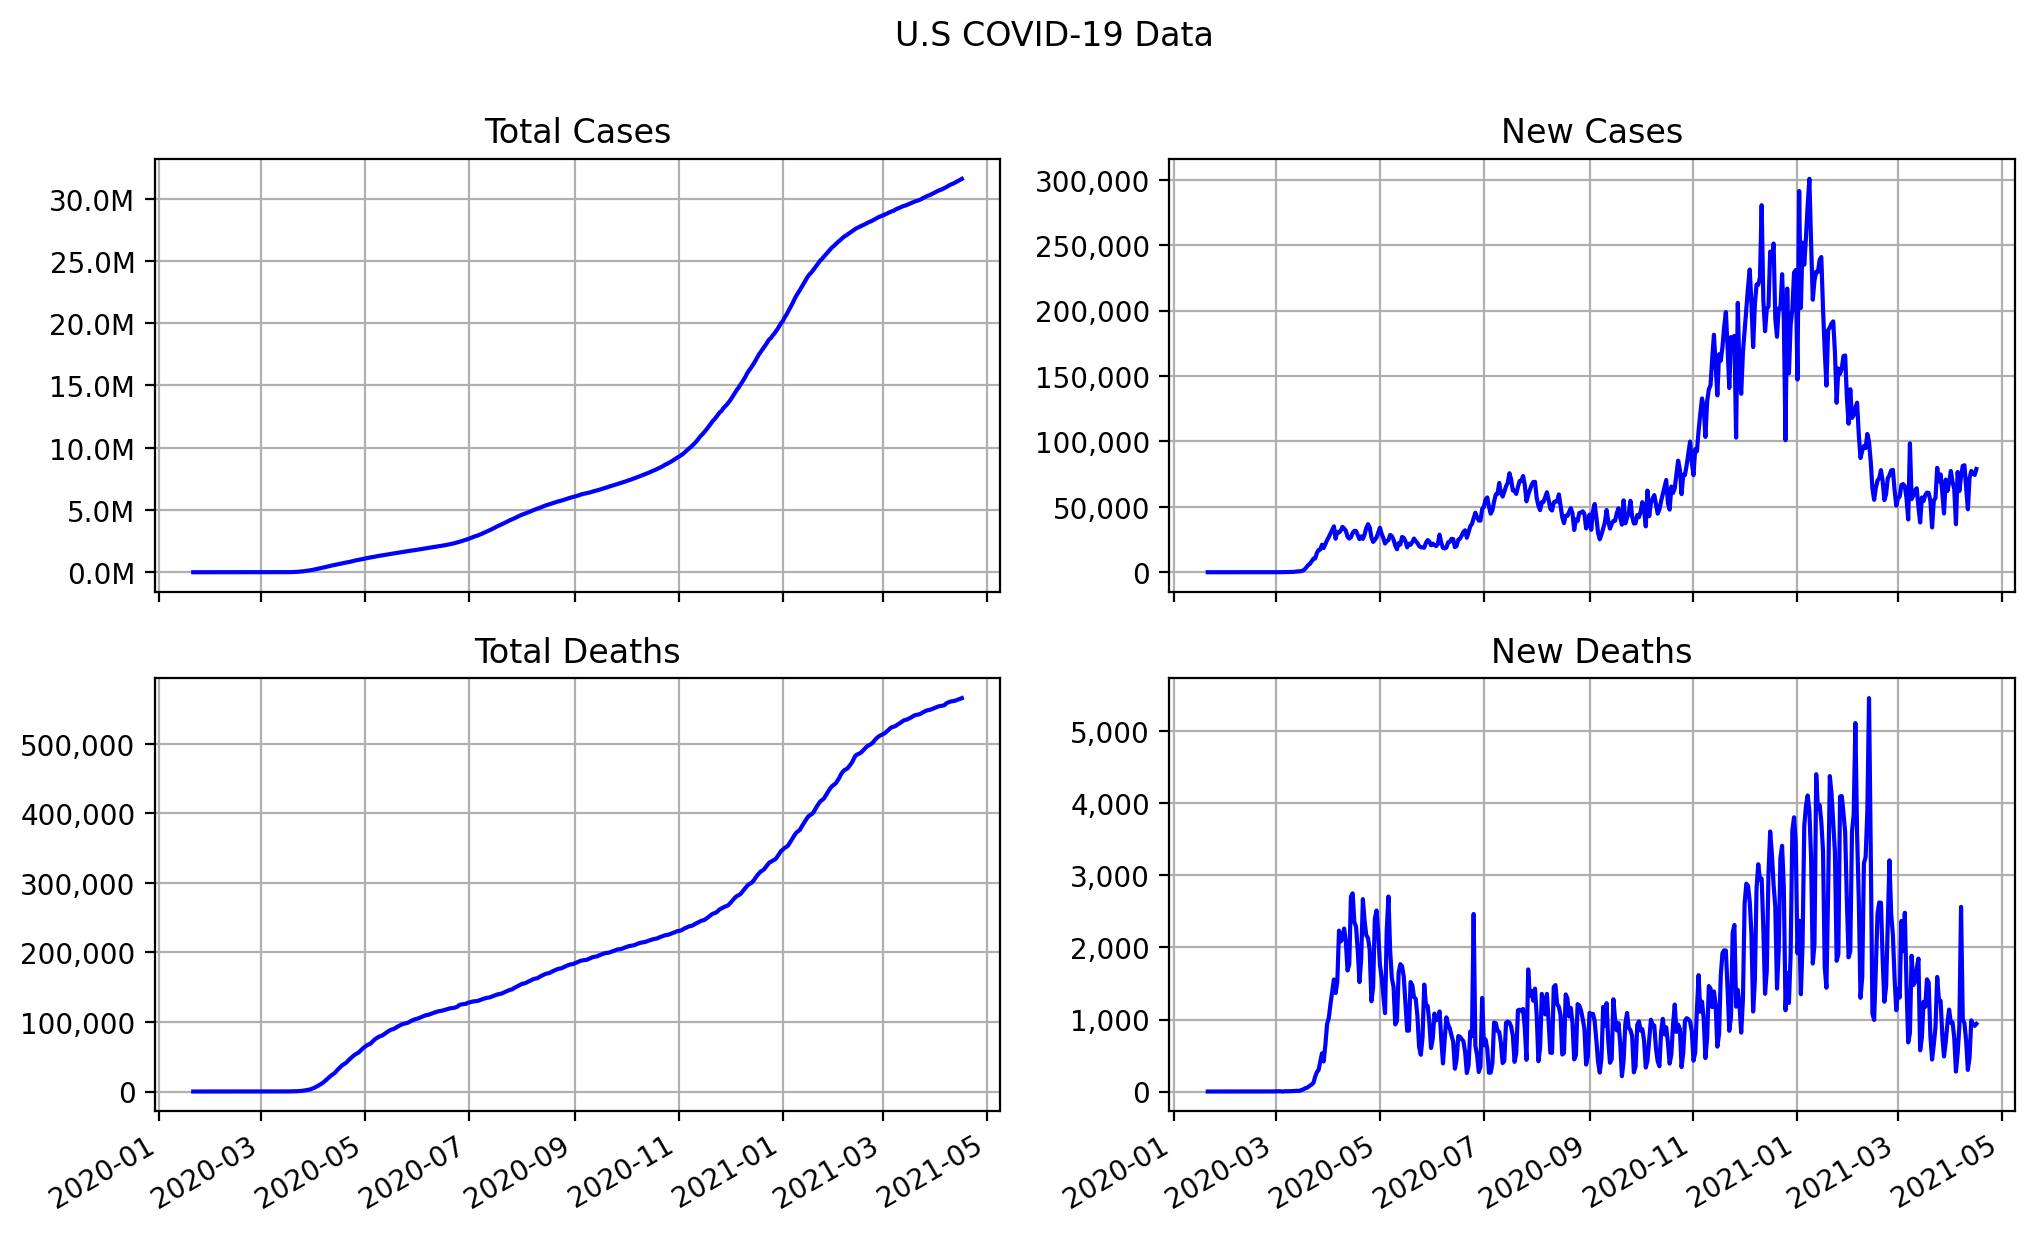
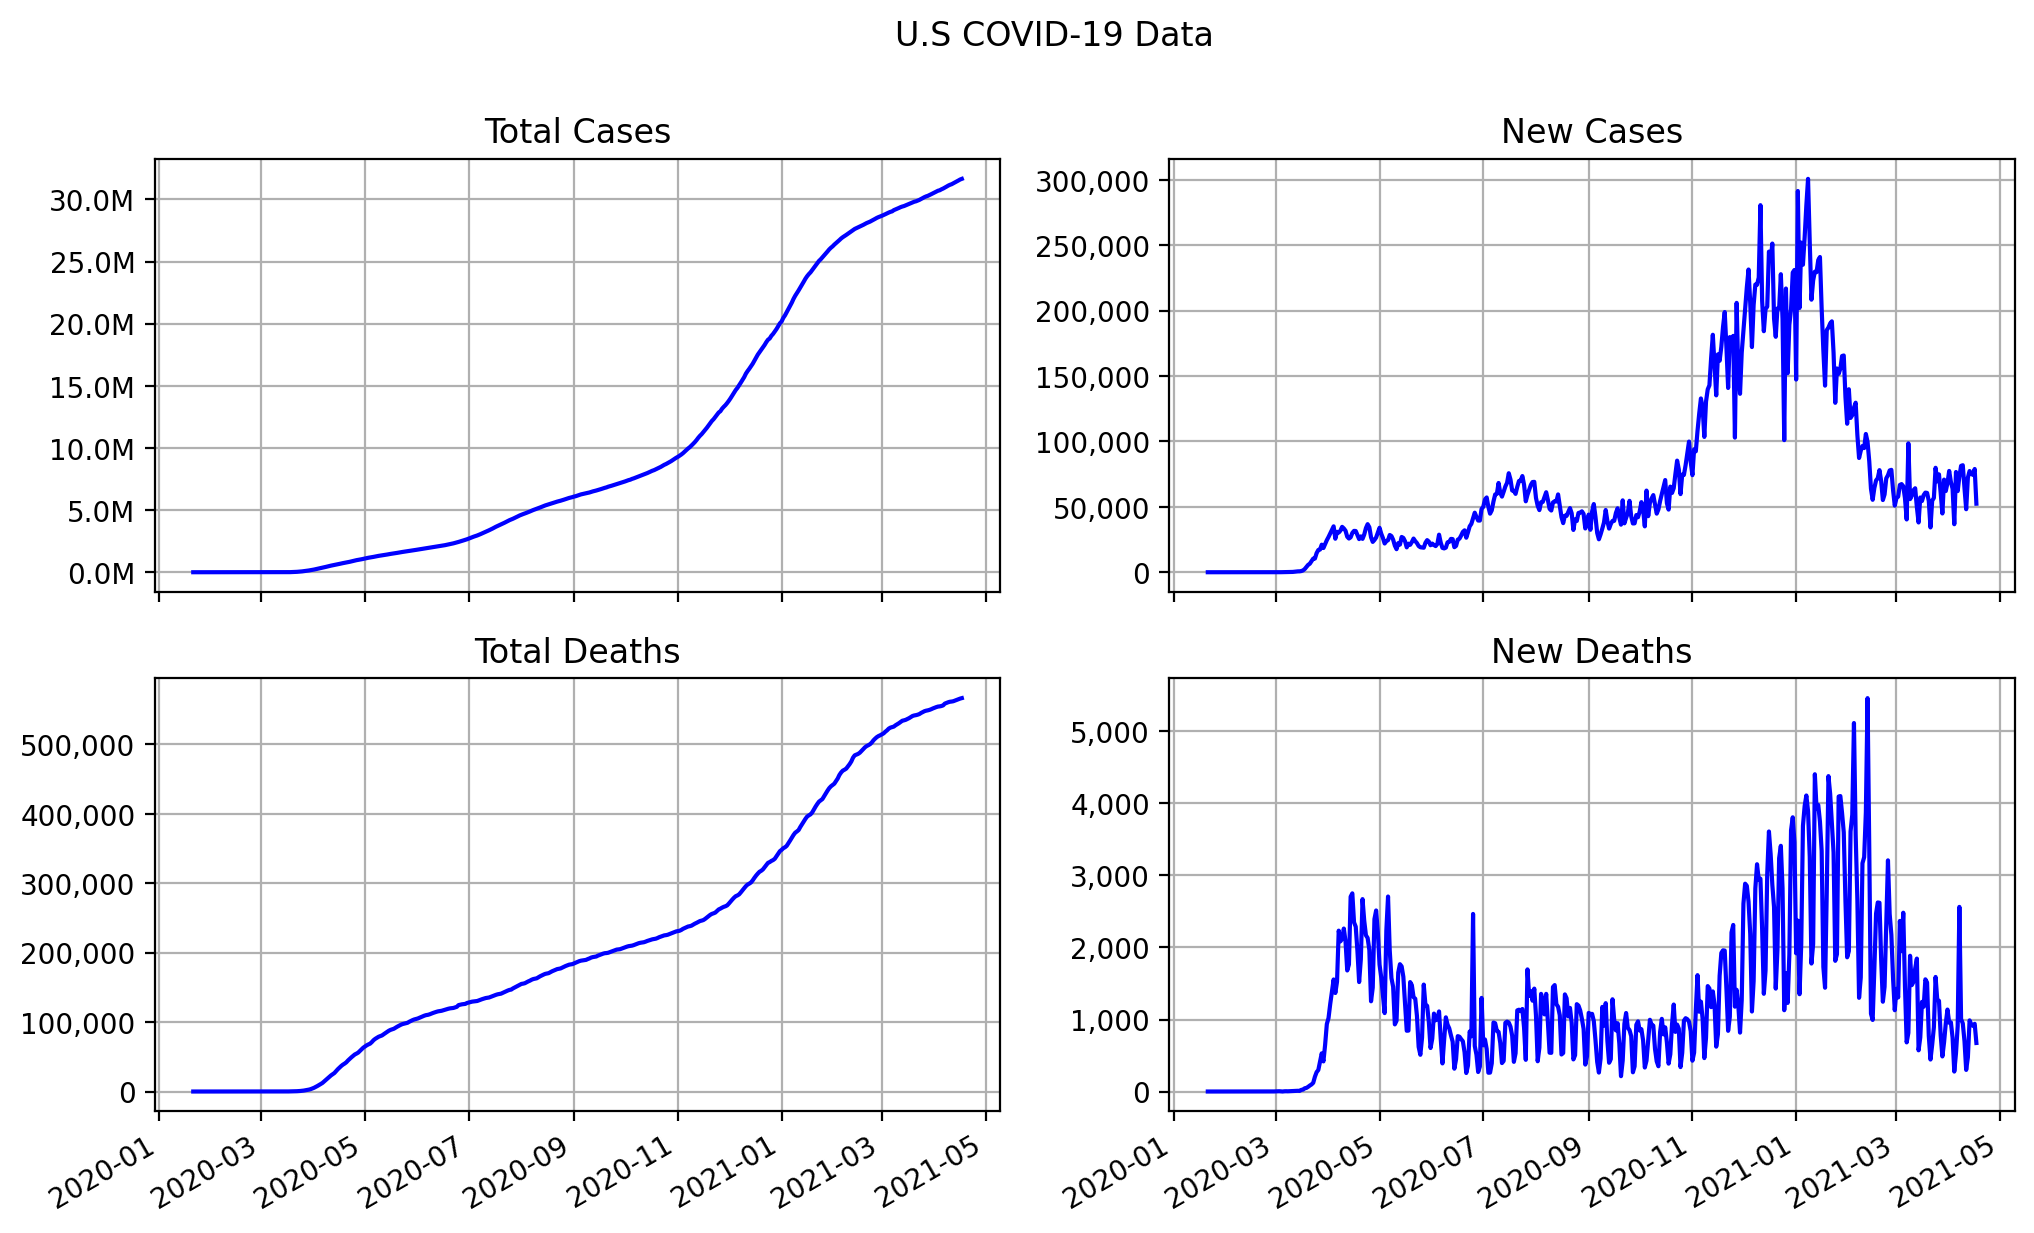
Updating data.

diff --git a/README.md b/README.md
@@ -1,10 +1,10 @@
-###### Updated April 18, 2021, 10:41 A.M EST
+###### Updated April 18, 2021, 6:44 P.M EST
 # US COVID-19 Data 
 ###### [ [U.S. Data](us.csv) ([Raw CSV](https://raw.githubusercontent.com/drebrb/covid-19-data/master/us.csv)) | [U.S. State-Level Data](states) ]
-| U.S    | Total Reported   | On April 16   | 7-Day Average   |
+| U.S    | Total Reported   | On April 17   | 7-Day Average   |
 |:-------|:-----------------|:--------------|:----------------|
-| Cases  | 31,598,030       | 78,932        | 70,117          |
-| Deaths | 565,778          | 940           | 749             |
+| Cases  | 31,650,421       | 52,391        | 68,406          |
+| Deaths | 566,452          | 674           | 745             |
 ###### [ [U.S. Plot](us.png) ]
 ![Plot](https://github.com/drebrb/covid-19-data/blob/master/us.png)
 # US COVID-19 Vaccinations
